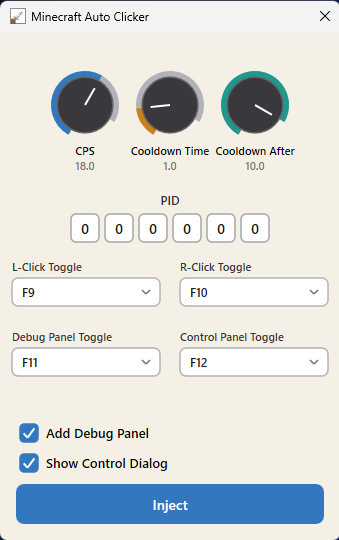
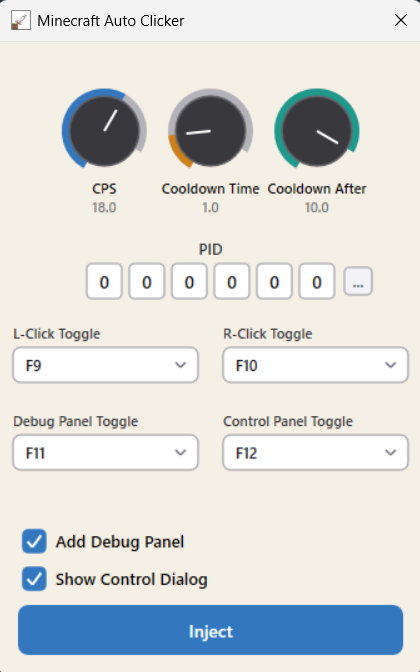
Updated Readme and images

diff --git a/readme.md b/readme.md
@@ -13,13 +13,16 @@
 ## What it does
 
 Inject the DLL, and a few background threads kick off handling everything:
-- **Auto-clicking** — left or right click at a set CPS (Clicks Per Second), with jittered delays and occasional micro-bursts so the pattern doesn't look robotic
-- **Control panel** — a floating in-game panel rendered with Direct2D where you can tune CPS, cooldowns, and keybinds without re-injecting
-- **Debug overlay** — a translucent HUD showing live CPS, average CPS, and expected CPS at a glance
+- **Auto-clicking** - left or right click at a set CPS (Clicks Per Second), with jittered delays and occasional micro-bursts so the pattern doesn't look robotic
+- **Fly hack** - toggle creative-style flight in survival mode with adjustable speed, controlled from a dedicated panel tab
+- **Control panel** - a floating in-game panel rendered with Direct2D where you can tune CPS, cooldowns, keybinds, and fly settings without re-injecting
+- **Debug overlay** - a translucent HUD showing live CPS, average CPS, and expected CPS at a glance
 
 Settings persist to a binary file in `%AppData%\AcApp` (fallback : `%TEMP%`) so you don't have to reconfigure every session.
 
 ![Minecraft Injected](Images/minecraftinjected.png)
+
+> **Note:** The panel shown above is from an older version - the Fly tab is not visible here as it didn't exist yet.
 
 ---
 
@@ -27,7 +30,7 @@ Settings persist to a binary file in `%AppData%\AcApp` (fallback : `%TEMP%`) so 
 
 ![Control Panel](Images/ControlPanel.png)
 
-The control panel is fully custom-drawn using Direct2D — sliders, rotary knobs, dropdowns, checkboxes, the works. All widgets are remappable.
+The control panel is fully custom-drawn using Direct2D - sliders, rotary knobs, dropdowns, checkboxes, the works. All widgets are remappable. The panel is split across three tabs: **Sliders**, **Keys**, and **Fly**.
 
 | Setting | Range / Options |
 |---|---|
@@ -37,6 +40,23 @@ The control panel is fully custom-drawn using Direct2D — sliders, rotary knobs
 | Trigger cooldown | Configurable |
 | Cooldown period | Configurable |
 | Keybinds | F1–F12 + Middle Mouse, remappable in-app |
+
+---
+
+## Fly Hack
+
+![Fly Hack Panel](Images/FlyHack.png)
+
+Accessible from the **Fly** tab in the control panel. Enables creative-style flight in survival using JVM reflection under the hood - no mods, just the injected DLL talking directly to the running JVM.
+
+| Setting | Range / Notes |
+|---|---|
+| Enable Fly | Toggle on/off |
+| Fly Speed | 0.01 – 2.0 (default Minecraft value is ~0.05) |
+
+Once enabled, **double-tap Space** in-game to take off, same as vanilla creative flight.
+
+> ⚠ **Fly state resets on death and on world reload.** Re-toggle it from the panel after respawning or re-entering a world - the toggle accurately reflects the current in-game state when you switch to the Fly tab.
 
 ---
 
@@ -50,14 +70,15 @@ Small translucent HUD that shows current CPS vs avg CPS vs expected CPS, useful 
 
 ## Project structure
 
-Everything's flat in the solution root — intentional, so VS filter organization handles the actual grouping. Open the `.sln` and it'll make sense.
+Everything lives under `src/` and `include/` - open the `.sln` and the VS filter organization handles the actual grouping.
 
 ```
-Addon.dll         ← injected payload (auto-clicker logic + UI)
+Addon.dll         ← injected payload (auto-clicker + fly hack logic + UI)
 main.cpp          ← injector host (Win32 window, DLL injection)
+mclib.h           ← thin C API over JVM reflection (fly, XP, item count)
 Graphics.cpp/h    ← thin Direct2D wrapper
 Renderer.cpp/h    ← main window rendering + widget layout
-ControlPanel.*    ← floating in-game control panel
+ControlPanel.*    ← floating in-game control panel (Sliders / Keys / Fly tabs)
 Slider.*          ← custom slider widget
 Knob.*            ← rotary knob widget
 Button.*          ← button widget (normal + bottom-padded variants)
@@ -65,7 +86,7 @@ Checkbox.*        ← checkbox widget
 CustomDropdown.*  ← scrollable dropdown
 KeySelector.*     ← paired F-key picker
 PidInput.*        ← digit-box PID entry widget
-Config.hpp        ← flat binary config r/w to %TEMP%
+Config.hpp        ← flat binary config r/w to %AppData%\AcApp
 ```
 
 ---
@@ -92,15 +113,16 @@ Needs **Visual Studio** with the Windows SDK. Direct2D and DWrite headers come w
 4. Set your CPS, cooldowns, and keybinds
 5. Hit Inject
 6. In-game, press your toggle key to start/stop clicking
+7. Open the Fly tab in the control panel to enable flight
 ```
 
-Control panel and debug overlay toggle independently — defaults are `F11` / `F12`.
+Control panel and debug overlay toggle independently - defaults are `F11` / `F12`.
 
 ---
 
 ## Disclaimer
 
-Side project I made to get used to Win32, Direct2D, espacially DLL injection, and thread. (may recieve tweaks and more hacks in future), not meant to be used in competitive play.  
+Side project I made to get used to Win32, Direct2D, especially DLL injection, and threading. (may receive tweaks and more hacks in future), not meant to be used in competitive play.  
   
 - No responsibility taken for bans or account issues
 - Anti-cheat (EAC, VAC, etc.) may detect injection regardless of click patterns
